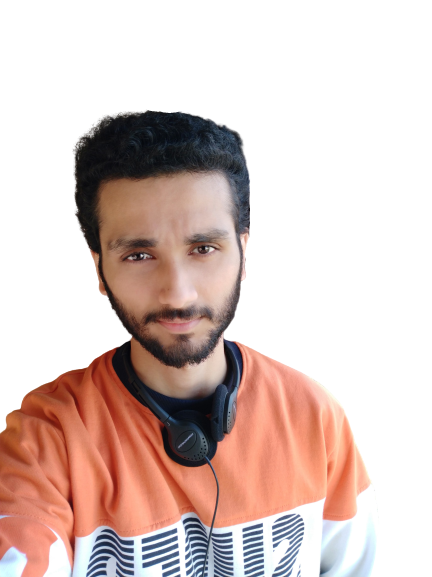
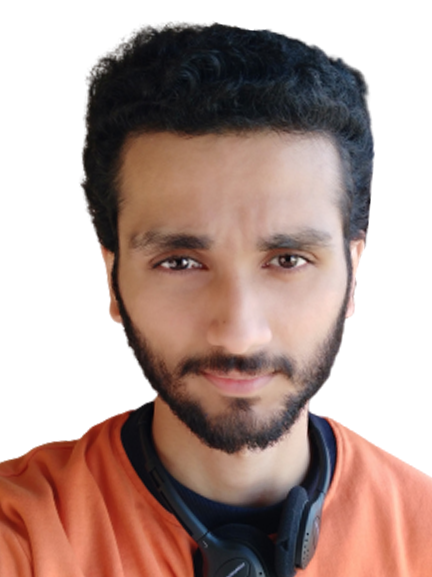
fixed Our Team page

diff --git a/client/src/components/OurTeam/Data.js b/client/src/components/OurTeam/Data.js
@@ -1,23 +1,25 @@
 import PiyushSingh from "../assets/operating/piyush_singh.png";
-import Shashank from "../assets/operating/Shashank Kumar.png";
+import Shashank from "../assets/operating/Shashank.jpg";
 import Sooraj from "../assets/operating/Sooraj Shukla.png";
 import Sharad from "../assets/operating/Sharad.jpg";
-import Raveet from "../assets/operating/Raveet kumar.jpg";
-import Sweety from "../assets/operating/Sweety Sahu.png";
-import Simran from '../assets/operating/Simran Singh.png';
+import Raveet from "../assets/operating/Raveet.png";
+import Sweety from "../assets/operating/Sweety.jpg";
+import Simran from '../assets/operating/Simran.png';
 import Vaibhav from "../assets/operating/Vaibhav Dixit.png";
-import Prabhat from "../assets/operating/Prabhat Soni.png";
-import Rishi from "../assets/operating/photo - Rishi Bajpai.jpg";
-import ShivangiSingh from "../assets/Assistance/Shivangi singh.jpg";
-import Jeenesh from "../assets/Assistance/Jeenesh Kumar Chaudhary.jpg";
-import Arnika from "../assets/Assistance/Arnika kaithwas.png";
-import Adarsh from "../assets/Assistance/Adarsh Srivastava.png";
-import ShivangiShukla from "../assets/Assistance/Shivangi Shukla.png";
+import Prabhat from "../assets/operating/Prabhat.png";
+import Rishi from "../assets/operating/Rishi.png";
+import Arun from "../assets/operating/Arun.png"
+
+import ShivangiSingh from "../assets/Assistance/Shivangi_Singh.png";
+import Jeenesh from "../assets/Assistance/JeeneshKumar.png";
+import Arnika from "../assets/Assistance/Arnika_kaithwas.png";
+import Adarsh from "../assets/Assistance/Adarsh_Srivastava.png";
+import ShivangiShukla from "../assets/Assistance/Shivangi_Shukla.png";
 import Sumit from "../assets/Assistance/Sumit Kumar Singh.png";
-import Ayush from "../assets/Assistance/Ayush Kumar Shukla.png";
-import Shubham from "../assets/Assistance/Shubham Pathak.png";
-import Sanskar from "../assets/Assistance/Sanskar singh.png";
-import Hareesh from "../assets/Assistance/Hareesh Kumar.jpeg";
+import Ayush from "../assets/Assistance/Ayush_Kumar.png";
+import Shubham from "../assets/Assistance/Shubham_Phathak.png";
+import Sanskar from "../assets/Assistance/Sanskar_Singh.png";
+import Hareesh from "../assets/Assistance/Hareesh_Charchil.png";
 export default [
   {
     id: 1,
@@ -60,7 +62,7 @@ export default [
     category: "Operating Member",
     mail: "mailto:singhsharad529@gmail.com",
     fb_link: "https://www.facebook.com/sharad.singh.712714/",
-    lnkdin_link: "linkedin.com/in/ss529",
+    lnkdin_link: "https://www.linkedin.com/in/ss529",
   },
 
   {
@@ -127,7 +129,15 @@ export default [
     mail: "mailto:rrb24397@gmail.com",
     fb_link: "",
     lnkdin_link: "linkedin.com/in/rishi-bajpai",
-  },
+  },{
+  id: 11,
+  name: "Arun kumar Rajput",
+  image:Arun,
+  post: "Developer",
+  category: "Operating Member",
+  mail: "mailto:Ar1445942@gmail.com",
+  fb_link: "https://m.facebook.com/arap.rajput",
+  lnkdin_link: "https://www.linkedin.com/in/arun-kumar-rajput-697076170/",},
   {
     id: 11,
     name: "Shivangi Singh",

diff --git a/client/src/components/Values/Values.js b/client/src/components/Values/Values.js
@@ -1,4 +1,6 @@
 import React from "react";
+import { FcSupport } from "react-icons/fc";
+import { GrTechnology } from "react-icons/gr";
 
 const Values = () => {
   return (
@@ -8,22 +10,28 @@ const Values = () => {
       </h1>
       <div className="valuesDiv">
         <div className="valueCard">
-          <span>🎯</span>Easy
+          <span>🎯</span>Best Mentorship
         </div>
         <div className="valueCard">
-          <span>🚀</span>Fast
+          <span>🚀</span>Open source environment
         </div>
         <div className="valueCard">
-          <span>📩</span>Deliver
+          <span>
+            <FcSupport />
+          </span>
+          Discussion Platform
         </div>
         <div className="valueCard">
           <span>💰</span>Free to join and Learn
         </div>
         <div className="valueCard">
-          <span>📡 </span>Edge c=Cutting tools
+          <span>
+            <GrTechnology />
+          </span>
+          Work on Trending Technologies
         </div>
         <div className="valueCard">
-          <span>❤</span>Promisable
+          <span>❤</span>Healthy competition
         </div>
       </div>
     </div>

diff --git a/client/src/components/OurTeam/member.scss b/client/src/components/OurTeam/member.scss
@@ -1,15 +1,17 @@
 .our-team-main {
   font-family: "Poppins", sans-serif;
   .cardm {
-    display: inline-block;
+    display: flex;
+    flex-direction: column;
+    justify-content: space-between;
     text-align: center;
-    width: 200px;
-    height: 260px;
+    width: 210px;
+    height: 240px;
     padding: 14px 10px 10px 10px;
     margin: 12px 16px;
     border-radius: 8px;
     background-color: rgb(247, 247, 247);
-    @media (max-width:505px){
+    @media (max-width:525px){
         width:100%;
     }
   }
@@ -25,8 +27,8 @@
   }
 
   .imgem img {
-    width: 150px;
-    height: 150px;
+    width: 120px;
+    height: 120px;
     overflow: hidden;
     clip-path: circle();
     border: 2px solid #ec7c2d;
@@ -49,6 +51,9 @@
     margin-bottom: 5px;
     font-size:1.1rem;
     font-weight:800;
+    @media (max-width:525px){
+      font-size: 1.3rem !important;
+  }
   }
 
   .desm {

diff --git a/client/src/components/OurTeam/Header.js b/client/src/components/OurTeam/Header.js
@@ -9,9 +9,9 @@ function Header() {
           Our team is a family of members of code. Our team consists of various
           members who together make a perfect Team. Three founder members are
           there for the planning and growth. There are three executive members
-          responsible for the plan execution. There are 9 operating members and
-          9 members in assistance. There are 20 dedicated mentors for the
-          technical guidance and 300+ active members of the club.
+          responsible for the plan execution. There are 11 operating members and
+          10 members in assistance. There are 20 dedicated mentors for the
+          technical guidance and 450+ active members of the club.
         </p>
       </div>
       <img src={header_img} className="image" />
